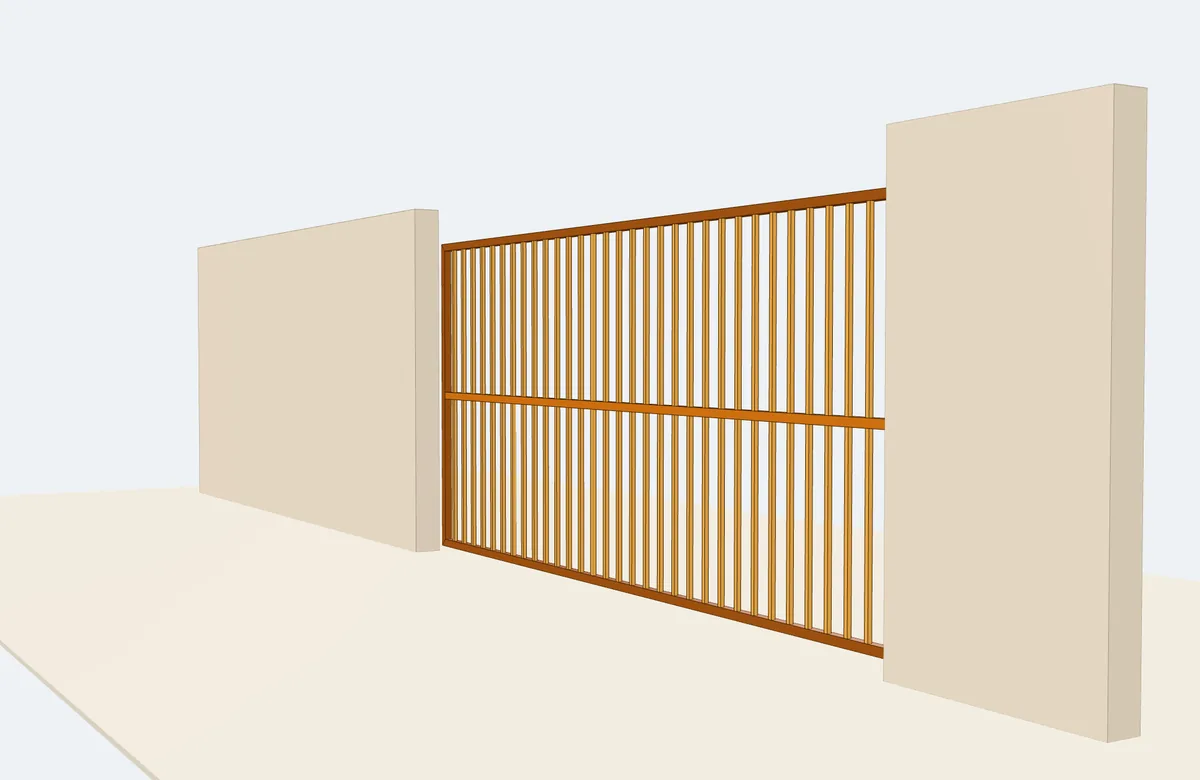
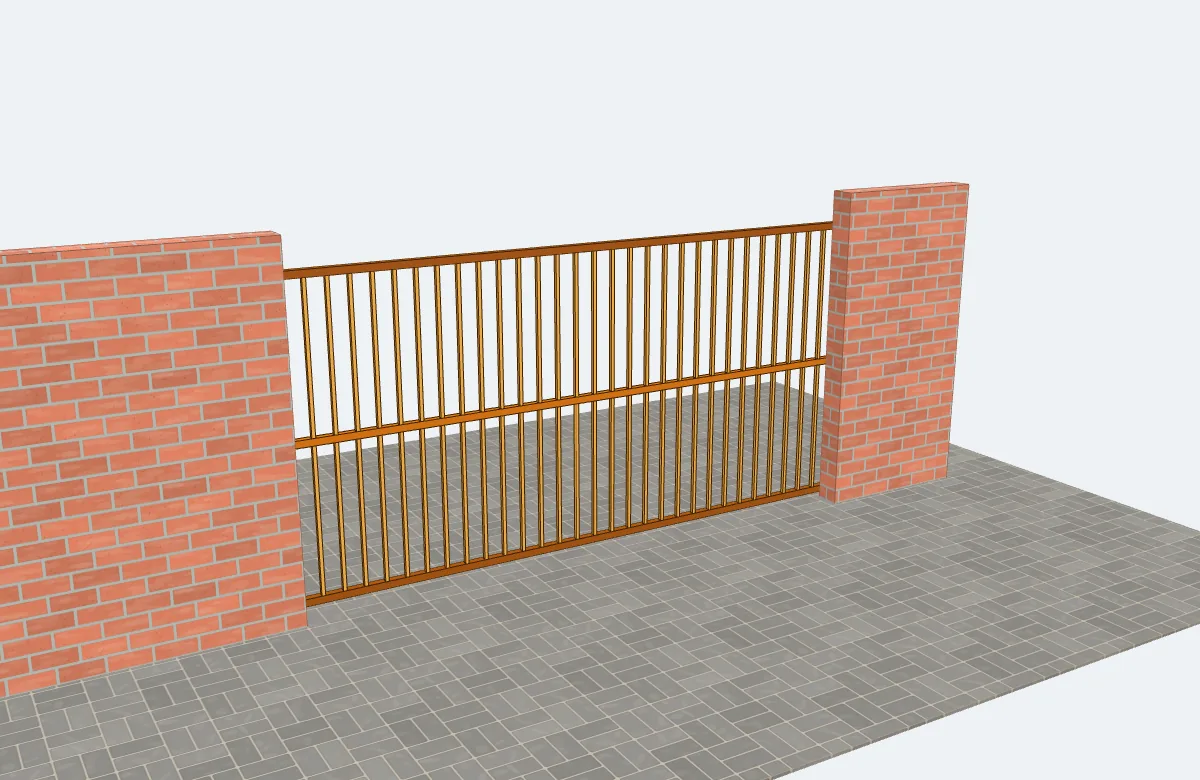
Taller: capturas 3D con ladrillo y adoquín, diseño de portón y la PRO se compra en la app
- 3d-porton, 3d-corredizo, 3d-reja y og.jpg vueltas a sacar con paredes de ladrillo, columnas
  cemento y piso de adoquín; nueva 3d-panos (travesaño doble y chapa en paños) con su texto
- precios: la PRO se compra desde la app (sin enlace ni WhatsApp a ventas); paso 3 y pregunta
  «¿Cómo compro…?» con el flujo de la app; sin js-comprar ni sus eventos del píxel
- _herramientas/capturas_taller.py: guion de las capturas 3D; CLAUDE.md al día

Claude-Session: https://claude.ai/code/session_013weyQPG6YtoKWQFdj9JGZh

diff --git a/taller/index.html b/taller/index.html
@@ -53,6 +53,9 @@
 .tl-3d-grande{display:grid;grid-template-columns:1.25fr 1fr;gap:18px;margin-bottom:18px}
 .tl-3d{position:relative;margin:0;border-radius:12px;overflow:hidden;background:#eef1f4;box-shadow:var(--sombra)}
 .tl-3d img{width:100%;height:100%;object-fit:cover}
+.tl-3d-texto{background:var(--acero-2);border:1px solid var(--acero-3);border-top:4px solid var(--herreria);border-radius:12px;padding:22px;display:flex;flex-direction:column;justify-content:center;gap:10px;box-shadow:var(--sombra)}
+.tl-3d-texto h3{font-size:1.45rem;color:var(--herreria)}
+.tl-3d-texto p{color:var(--tenue)}
 .tl-3d-chapa{display:grid;grid-template-columns:repeat(3,1fr);gap:18px}
 .tl-3d-chapa .tl-3d img{aspect-ratio:4/3;object-fit:contain;background:#eef1f4}
 /* catálogo */
@@ -72,6 +75,8 @@
 .tl-monto small{font:500 1rem var(--f-texto);color:var(--tenue)}
 .tl-plan ul{margin:0;padding-left:20px;line-height:1.75}
 .tl-plan .boton{margin-top:auto}
+.tl-en-app{margin-top:auto;background:var(--acero-3);border-radius:10px;padding:14px 16px;font-weight:600;text-align:center}
+.tl-en-app small{display:block;font-weight:500;color:var(--tenue);margin-top:4px}
 .tl-nota{font-size:.92rem;color:var(--tenue);text-align:center;margin-top:18px}
 /* pasos */
 .tl-pasos{display:grid;grid-template-columns:repeat(3,1fr);gap:18px;counter-reset:paso;padding:0;margin:0;list-style:none}
@@ -224,11 +229,19 @@ src="https://www.facebook.com/tr?id=4773464836310644&ev=PageView&noscript=1"></n
       <div class="intro">
         <p class="tl-eyebrow">Vista 3D</p>
         <h2>Mirala armada antes de cortar</h2>
-        <p>Cada portón, reja y desarrollo se ve en 3D: lo girás con un dedo y lo acercás con dos. El portón entre columnas o paredes, la reja en el hueco de la ventana y la chapa enrollada como va a quedar. Está también en la DEMO.</p>
+        <p>Cada portón, reja y desarrollo se ve en 3D: lo girás con un dedo y lo acercás con dos. El portón entre columnas o paredes de ladrillo, la reja en el hueco de la ventana y la chapa enrollada como va a quedar. Está también en la DEMO.</p>
       </div>
       <div class="tl-3d-grande">
         <figure class="tl-3d"><img src="img/3d-corredizo.webp" width="1200" height="780" loading="lazy" alt="Portón corredizo en 3D que corre por detrás de las paredes"><figcaption>Corredizo con paredes</figcaption></figure>
         <figure class="tl-3d"><img src="img/3d-reja.webp" width="800" height="800" loading="lazy" alt="Reja de ventana de rombos en 3D, sobrepuesta en el hueco de una pared"><figcaption>Reja de ventana en la pared</figcaption></figure>
+      </div>
+      <div class="tl-3d-grande">
+        <figure class="tl-3d"><img src="img/3d-panos.webp" width="1200" height="780" loading="lazy" alt="Portón de 2 hojas en 3D con chapa en paños, parantes y travesaño doble con barrotes en la franja, entre paredes de ladrillo"><figcaption>Travesaño doble y chapa en paños</figcaption></figure>
+        <div class="tl-3d-texto">
+          <h3>Tu diseño de portón</h3>
+          <p>Barrotes, diagonales, rombos, cuadrícula, cruz o chapa ciega. Travesaños repartidos o un travesaño doble al centro, con la franja libre o con sus propios barrotes.</p>
+          <p>Con chapa, elegís cuántos paños van a lo ancho: la app pone los parantes y te da cada chapa a cortar.</p>
+        </div>
       </div>
       <div class="tl-3d-chapa">
         <figure class="tl-3d"><img src="img/3d-t_cil_cil.webp" width="800" height="577" loading="lazy" alt="T de caño en 3D"><figcaption>T de caño</figcaption></figure>
@@ -295,7 +308,7 @@ src="https://www.facebook.com/tr?id=4773464836310644&ev=PageView&noscript=1"></n
             <li>Costos del portón: perfiles, soldadura y pintura</li>
             <li>Guardar trabajos; los de portones, barras y guillotina también se abren en optiMAX para Windows</li>
           </ul>
-          <a class="boton boton-rojo js-comprar" href="https://wa.me/59177626675" target="_blank" rel="noopener">Comprar la PRO por WhatsApp</a>
+          <p class="tl-en-app">Se compra desde la app, en el celular: abrila y tocá «Comprar PRO».<small>Pagás con QR, Binance o USDT y la PRO se activa sola.</small></p>
         </article>
       </div>
       <p class="tl-nota">La licencia va con tu número de WhatsApp y sirve en hasta 2 equipos. La PRO de la app y la de optiMAX para Windows son licencias separadas.</p>
@@ -308,7 +321,7 @@ src="https://www.facebook.com/tr?id=4773464836310644&ev=PageView&noscript=1"></n
       <ol class="tl-pasos">
         <li><h3>Abrila</h3><p>Entrá a <a class="js-app" data-modulo="inicio" href="https://app.optimax.lat/">app.optimax.lat</a> desde el celular. No pide cuenta ni datos.</p></li>
         <li><h3>Dejala en el inicio</h3><p>En Android, menú ⋮ → «Instalar aplicación». En iPhone, desde Safari: Compartir → «Agregar a inicio» (así no se borran tus datos).</p></li>
-        <li><h3>Usala en el taller</h3><p>Abrila una vez con internet y después anda sin conexión. Para la PRO: «Comprar PRO» en la app, y al pagar, «Ya compré: activar».</p></li>
+        <li><h3>Usala en el taller</h3><p>Abrila una vez con internet y después anda sin conexión. Para la PRO: «Comprar PRO» en la app; cuando confirmamos el pago, se activa sola.</p></li>
       </ol>
     </div>
   </section>
@@ -341,7 +354,7 @@ src="https://www.facebook.com/tr?id=4773464836310644&ev=PageView&noscript=1"></n
       <details><summary>¿Necesito una máquina CNC?</summary><p>No. Las plantillas se trazan a mano o se imprimen a escala, y las listas de corte son para sierra, amoladora, cizalla o guillotina.</p></details>
       <details><summary>¿Tengo que instalar algo?</summary><p>No. Se abre en el navegador del celular. Si querés, la dejás en la pantalla de inicio y se abre como cualquier app.</p></details>
       <details><summary>¿Funciona sin internet?</summary><p>Sí, después de abrirla una vez con internet. La PRO, una vez activada, sigue andando sin conexión.</p></details>
-      <details><summary>¿Cómo compro y activo la PRO?</summary><p>Tocás «Comprar PRO» en la app o el botón de esta página y nos escribís por WhatsApp. Cuando está pago, en la app tocás «Ya compré: activar» → «Entrar con WhatsApp» desde el mismo número.</p></details>
+      <details><summary>¿Cómo compro y activo la PRO?</summary><p>Desde la app, en el celular: tocás «Comprar PRO», elegís cómo pagar (QR, Binance o USDT), pagás y tocás «Ya pagué». Se abre WhatsApp con el aviso del pago: lo mandás y, cuando confirmamos el pago, la PRO se activa sola en ese equipo.</p></details>
       <details><summary>¿En cuántos equipos la puedo usar?</summary><p>En hasta 2 equipos con el mismo número de WhatsApp.</p></details>
       <details><summary>¿Dónde quedan mis trabajos?</summary><p>Con la PRO quedan guardados en el mismo equipo. Los de portones, barras y guillotina también se guardan en un archivo .nesting, que podés pasar a otro equipo o abrir en optiMAX para Windows.</p></details>
       <details><summary>¿Me sirve la licencia de optiMAX para Windows?</summary><p>No, son productos y licencias separados.</p></details>
@@ -382,9 +395,7 @@ src="https://www.facebook.com/tr?id=4773464836310644&ev=PageView&noscript=1"></n
   var precio = bolivia ? "250 Bs" : "20 USDT";
   document.querySelectorAll(".js-precio").forEach(function (e) { e.textContent = precio; });
   document.querySelectorAll(".js-precio-pc").forEach(function (e) { e.textContent = bolivia ? "590 Bs" : "49 USDT"; });
-  var txt = "Hola, quiero comprar optiMAX Taller PRO (" + precio + ").";
-  document.querySelectorAll(".js-comprar").forEach(function (a) { a.href = "https://wa.me/59177626675?text=" + encodeURIComponent(txt); });
-  // Píxel: abrir la app (con el módulo), comprar y consultas
+  // Píxel: abrir la app (con el módulo) y consultas (la PRO se compra en la app: ahí se mide)
   function evento(tipo, nombre, datos) {
     try { if (window.fbq) fbq(tipo, nombre, Object.assign({ idioma: "es", pagina: "taller" }, datos || {})); } catch (e) {}
   }
@@ -392,7 +403,6 @@ src="https://www.facebook.com/tr?id=4773464836310644&ev=PageView&noscript=1"></n
     var a = ev.target.closest && ev.target.closest("a");
     if (!a) return;
     if (a.classList.contains("js-app")) evento("trackCustom", "TallerAbrirApp", { modulo: a.dataset.modulo || "inicio" });
-    else if (a.classList.contains("js-comprar")) { evento("track", "Contact", { content_name: "optiMAX Taller PRO" }); evento("trackCustom", "TallerComprarPRO", { precio: precio }); }
     else if (a.classList.contains("js-consultas")) evento("trackCustom", "TallerConsulta");
   });
 })();

diff --git a/_herramientas/capturas_taller.py b/_herramientas/capturas_taller.py
@@ -1,0 +1,168 @@
+"""Capturas de la vista 3D de optiMAX Taller para la página taller/ (taller/img/3d-*.webp y og.jpg).
+
+Abre la app (repo optimax-pwa, con el código PRO enlazado en pro/ para ver los portones) en un navegador sin pantalla,
+arma cada trabajo con los botones de la app, abre la vista 3D, esconde la barra, los avisos y los botones y saca la
+foto al doble de resolución (después se achica, para que los bordes salgan suaves).
+
+    pip install playwright pillow
+    python _herramientas/capturas_taller.py --app RUTA/optimax-pwa [--chrome /usr/bin/google-chrome] [--solo porton]
+
+RUTA/optimax-pwa/pro tiene que ser el repo privado optimax-pwa-pro (enlace o carpeta): la app lo carga con ?pro=1.
+Escribe en taller/img/ (al lado de esta carpeta). Si cambia la app (colores, 3D, alrededor), volver a correrlo.
+"""
+import argparse
+import os
+import subprocess
+import sys
+import time
+
+from PIL import Image
+from playwright.sync_api import sync_playwright
+
+AQUI = os.path.dirname(os.path.abspath(__file__))
+SALIDA = os.path.join(AQUI, "..", "taller", "img")
+PUERTO = 8791
+# la vista sin la barra de arriba, los avisos, los botones de alrededor ni la ayuda
+CSS = ".p-completa-barra,.p-3d-aviso,.p-3d-ayuda,.p-3d-entorno{display:none!important}"
+
+
+def portones(pg, base):
+    """Entra a Rejas y portones con la PRO de desarrollo (?pro=1) y el trabajo de muestra."""
+    pg.goto(base + "?pro=1#chapa")
+    pg.wait_for_selector("#chapas li")
+    pg.evaluate("localStorage.removeItem('optimax-portones')")
+    pg.goto(base + "#portones")
+    pg.wait_for_selector("#p-lista li")
+
+
+def esperar(pg):
+    pg.wait_for_timeout(1500)
+    pg.wait_for_selector("#p-opt", state="hidden", timeout=30000)
+    if pg.is_visible("#p-error"):
+        raise RuntimeError(pg.inner_text("#p-error"))
+
+
+def foto_3d(pg, entorno, nombre, ancho, alto, mover=None):
+    """Abre la vista 3D con el alrededor pedido y guarda la foto (ancho × alto px; se saca al doble)."""
+    pg.set_viewport_size({"width": ancho // 2, "height": alto // 2})
+    pg.wait_for_timeout(300)
+    pg.click("#p-3d")
+    pg.wait_for_selector(".p-3d[data-piezas]", timeout=20000)
+    pg.wait_for_timeout(1200)
+    if entorno:
+        pg.click(f".p-3d-entorno label:has-text('{entorno}')")
+        pg.wait_for_timeout(500)
+    estilo = pg.add_style_tag(content=CSS)
+    if mover:
+        mover(pg)
+    pg.wait_for_timeout(900)
+    tmp = os.path.join(SALIDA, f"_{nombre}.png")
+    pg.locator(".p-3d-lienzo canvas").screenshot(path=tmp)
+    estilo.evaluate("e => e.remove()")
+    pg.click(".p-3d .p-c-cerrar")
+    img = Image.open(tmp).convert("RGB")
+    img = img.resize((ancho, alto), Image.LANCZOS) if img.size != (ancho, alto) else img
+    destino = os.path.join(SALIDA, nombre)
+    if nombre.endswith(".jpg"):
+        img.save(destino, quality=86, optimize=True)
+    else:
+        img.save(destino, quality=82, method=6)
+    os.remove(tmp)
+    print(f"  {nombre}: {ancho} × {alto}")
+
+
+def acercar(pasos):
+    def mover(pg):
+        caja = pg.locator(".p-3d-lienzo canvas").bounding_box()
+        pg.mouse.move(caja["x"] + caja["width"] / 2, caja["y"] + caja["height"] / 2)
+        for _ in range(abs(pasos)):
+            pg.mouse.wheel(0, -120 if pasos > 0 else 120)
+            pg.wait_for_timeout(60)
+    return mover
+
+
+def porton(pg, base):
+    """Portada y og.jpg: batiente de 2 hojas de barrotes entre columnas."""
+    portones(pg, base)
+    pg.click(".p-tarjeta[data-v=batiente_2]")
+    pg.fill("#p-ancho", "3000")
+    pg.fill("#p-alto", "1800")
+    esperar(pg)
+    foto_3d(pg, "Columnas", "3d-porton.webp", 1200, 780, acercar(2))
+    foto_3d(pg, "Columnas", "og.jpg", 1200, 630, acercar(2))
+
+
+def corredizo(pg, base):
+    portones(pg, base)
+    pg.click(".p-tarjeta[data-v=corredizo]")
+    pg.fill("#p-ancho", "3500")
+    pg.fill("#p-alto", "1800")
+    esperar(pg)
+    foto_3d(pg, "Paredes", "3d-corredizo.webp", 1200, 780, acercar(2))
+
+
+def reja(pg, base):
+    """Reja de ventana de rombos, sobrepuesta en el hueco de la pared."""
+    portones(pg, base)
+    pg.click(".p-tarjeta[data-v=reja_ventana]")
+    pg.click(".p-tarjeta[data-v=rombos]")
+    pg.fill("#p-ancho", "1200")
+    pg.fill("#p-alto", "1000")
+    pg.fill("#p-sob_lat", "50")
+    pg.fill("#p-sob_arr", "50")
+    pg.fill("#p-sob_abj", "50")
+    esperar(pg)
+    foto_3d(pg, "Pared", "3d-reja.webp", 800, 800, acercar(1))
+
+
+def panos(pg, base):
+    """Travesaño doble con barrotes en la franja y chapa en 3 paños a lo ancho, entre paredes."""
+    portones(pg, base)
+    pg.click(".p-tarjeta[data-v=batiente_2]")
+    pg.click(".p-tarjeta[data-v=chapa]")
+    pg.fill("#p-ancho", "3000")
+    pg.fill("#p-alto", "1800")
+    pg.check("input[name=p-trav_modo][value=doble]")
+    pg.fill("#p-franja", "220")
+    for _ in range(5):
+        pg.click("[data-paso=n_franja][data-d='1']")
+    for _ in range(2):
+        pg.click("[data-paso=n_panos][data-d='1']")
+    esperar(pg)
+    foto_3d(pg, "Paredes", "3d-panos.webp", 1200, 780, acercar(2))
+
+
+CAPTURAS = {"porton": porton, "corredizo": corredizo, "reja": reja, "panos": panos}
+
+
+def main():
+    ap = argparse.ArgumentParser()
+    ap.add_argument("--app", required=True, help="repo optimax-pwa (con pro/ = optimax-pwa-pro)")
+    ap.add_argument("--chrome", default="/usr/bin/google-chrome" if os.path.exists("/usr/bin/google-chrome") else None)
+    ap.add_argument("--solo", choices=sorted(CAPTURAS), action="append")
+    a = ap.parse_args()
+    if not os.path.isdir(os.path.join(a.app, "pro")):
+        sys.exit("Falta pro/ en la app (el repo optimax-pwa-pro): sin la PRO no se ven los portones.")
+    os.makedirs(SALIDA, exist_ok=True)
+    srv = subprocess.Popen([sys.executable, "-m", "http.server", str(PUERTO), "-d", a.app],
+                           stdout=subprocess.DEVNULL, stderr=subprocess.DEVNULL)
+    time.sleep(1)
+    base = f"http://localhost:{PUERTO}/"
+    try:
+        with sync_playwright() as p:
+            b = p.chromium.launch(executable_path=a.chrome, args=["--no-sandbox"])
+            pg = b.new_page(viewport={"width": 600, "height": 390}, device_scale_factor=2)
+            errores = []
+            pg.on("pageerror", lambda e: errores.append(str(e)))
+            for nombre in a.solo or CAPTURAS:
+                print(nombre)
+                CAPTURAS[nombre](pg, base)
+            b.close()
+            if errores:
+                sys.exit(f"Errores de la app: {errores}")
+    finally:
+        srv.terminate()
+
+
+if __name__ == "__main__":
+    main()

diff --git a/CLAUDE.md b/CLAUDE.md
@@ -20,11 +20,15 @@ https://app.optimax.lat, repo `optimax-pwa`; esta es solo su página). Solo en e
 colores, barra, botones y pie) + su propio `<style>` (clases `tl-…`; colores de cada oficio iguales a los de la app); **no**
 usa `comun.js` (que es del programa de Windows: descarga y pagos). Su propio script al final: precio de la PRO **250 Bs en
 Bolivia / 20 USDT afuera** (zona horaria `America/La_Paz`, como el sitio y la app; `.js-precio`, `.js-precio-pc` = 590 Bs /
-49 USDT), mensaje de WhatsApp a ventas y eventos del píxel (`TallerAbrirApp` con `modulo`, `Contact` + `TallerComprarPRO`
-con `precio`, `TallerConsulta`; todos con `idioma: "es"` y `pagina: "taller"`). Mismo píxel y `ox_eid` que el sitio.
+49 USDT) y eventos del píxel (`TallerAbrirApp` con `modulo`, `TallerConsulta`; con `idioma: "es"` y `pagina: "taller"`).
+Mismo píxel y `ox_eid` que el sitio. **La PRO se compra solo desde la app** (26-nov, Max): la página muestra el precio y
+dice que se compra en la app («Comprar PRO»), sin enlace de compra ni WhatsApp a ventas (la compra queda atada al
+equipo); por eso ya no hay `js-comprar` ni los eventos `Contact` / `TallerComprarPRO`.
 Imágenes en `taller/img/`: capturas reales de la app (`3d-*.webp` = vistas 3D, `cel-*.webp` = pantallas del celular,
-`og.jpg` = imagen para compartir) y las 12 figuras en `taller/img/fig/`. Las capturas se sacan con el guion de Claude
-(Playwright sobre la PWA con `?pro=1`); si cambia la app, se vuelven a sacar. Datos de DEMO / PRO = los de la app (ver
+`og.jpg` = imagen para compartir) y las 12 figuras en `taller/img/fig/`. Las capturas 3D de portones (`3d-porton`,
+`3d-corredizo`, `3d-reja`, `3d-panos`, `og.jpg`) se sacan con `python _herramientas/capturas_taller.py --app RUTA/optimax-pwa`
+(Playwright sobre la PWA con `?pro=1`; `pro/` = el repo privado); si cambia la app, se vuelven a sacar. Las de chapa y
+`cel-*` no están en ese guion (se sacaron a mano el 25-nov). Datos de DEMO / PRO = los de la app (ver
 `estado-pwa.md` en el Project de la PWA): si cambian allá, cambiarlos acá. El enlace desde el sitio es `/taller/`
 (absoluto, así sirve también en `pt/`).
 
